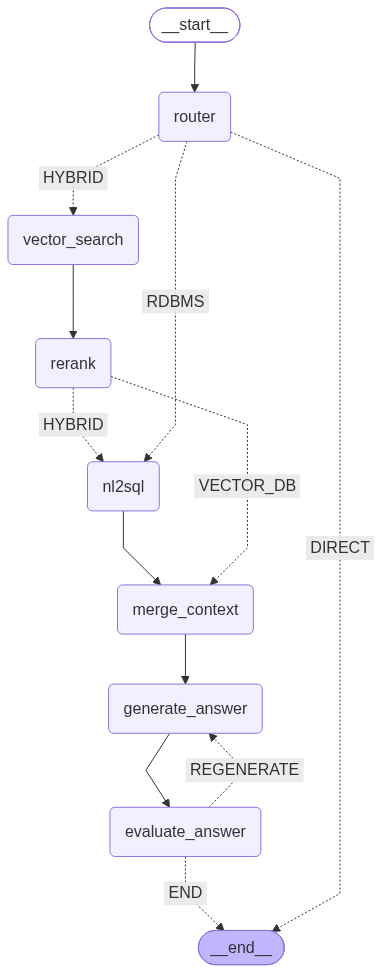
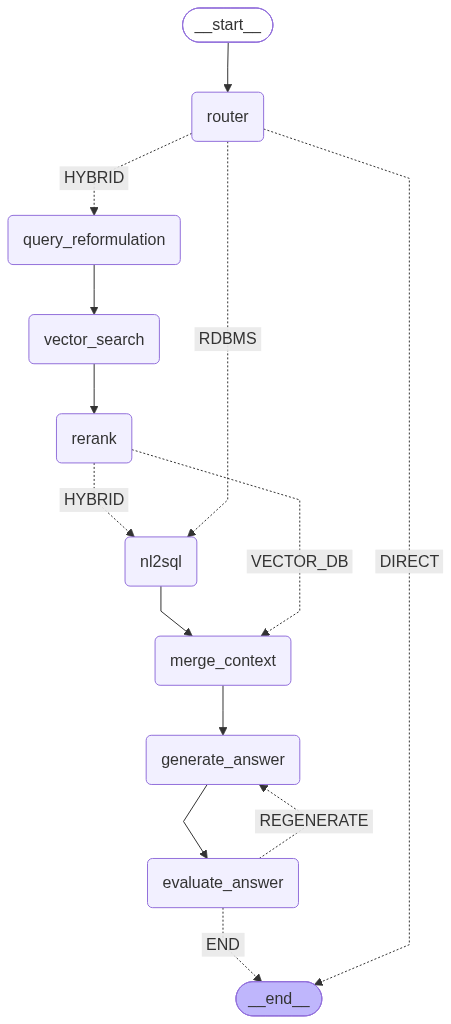
query formulation and evaluator changes

diff --git a/src/api/v1/agents/agents.py b/src/api/v1/agents/agents.py
@@ -41,7 +41,7 @@ def _get_llm():
 
 def _get_evaluator_llm():
     return ChatOpenAI(
-        model="gpt-4o-mini",
+        model=os.getenv("OPENAI_CHAT_MODEL"),
         api_key=os.getenv("OPENAI_API_KEY"),
         temperature=0,
     )
@@ -95,6 +95,27 @@ Use when the answer requires only structured data from the relational database, 
 - Reward points or transaction history
 - Counts, summaries or other customer-specific data
 
+RDBMS is for actual customer-specific data, not generic questions about
+how the product or reward program works.
+
+Use RDBMS when the question asks for actual or historical customer data,
+such as:
+- what the customer spent
+- what the customer earned
+- transaction history
+- balances
+- payments
+- statements
+- customer/card details
+
+A generic question about earning rates, benefits, eligibility, fees,
+rules, or policies is VECTOR_DB even if phrased using "I", "my", or "me".
+
+Examples:
+- "How many points do I earn for dining?" → VECTOR_DB
+- "How many points did I earn for dining last month?" → RDBMS
+- "What is the dining reward rate?" → VECTOR_DB
+
 3. HYBRID
 Use when BOTH the relational database and knowledge base are required.
 
@@ -104,6 +125,13 @@ Examples include questions requiring customer-specific data together with:
 - Billing rules
 - Spend categorization rules
 - Other product or policy information
+
+Use HYBRID only when the answer genuinely requires BOTH:
+1. actual customer/transaction data, and
+2. knowledge-base rules or policies.
+
+Do not use HYBRID merely because the question mentions rewards,
+spending, fees, or another topic that exists in both sources.
 
 4. DIRECT
 Use when no database or knowledge-base retrieval is required.
@@ -176,6 +204,72 @@ Return:
             "document_name": "",
             "sql_query_executed": None,
         },
+    }
+
+
+def query_reformulation_node(state: RAGState) -> RAGState:
+    print("========= INSIDE QUERY REFORMULATION NODE =========")
+
+    llm = _get_router_llm()
+
+    prompt = ChatPromptTemplate.from_messages(
+        [
+            (
+                "system",
+                """
+You rewrite user questions into effective search queries for the
+NorthStar Credit Card knowledge base.
+
+Create ONE standalone retrieval query.
+
+Use conversation history to resolve references such as:
+he, she, this, that, previous, same, what about, how about.
+
+Also expand important domain terms with closely related terms when useful
+for document retrieval.
+
+Rules:
+- Preserve the user's intent.
+- Resolve conversational references using history.
+- Add useful credit-card terminology or synonyms when they improve retrieval.
+- Do not answer the question.
+- Do not invent facts, policies, names, amounts, dates, or rules.
+- Do not introduce information that is not present in the question or history.
+- If the question is already clear, make only useful retrieval improvements.
+- Return only the search query.
+""",
+            ),
+            (
+                "human",
+                """
+Conversation History:
+{history}
+
+Current Question:
+{query}
+""",
+            ),
+        ]
+    )
+
+    chain = prompt | llm
+
+    result = chain.invoke(
+        {
+            "history": state.get("messages", []),
+            "query": state["query"],
+        }
+    )
+
+    retrieval_query = result.content.strip()
+
+    print("========= QUERY REFORMULATION =========")
+    print(f"Original Query   : {state['query']}")
+    print(f"Retrieval Query  : {retrieval_query}")
+
+    return {
+        **state,
+        "retrieval_query": retrieval_query,
     }
 
 
@@ -322,11 +416,12 @@ def rerank_node(state: RAGState):
     # send the query and the retrieved_docs to the reranking model
 
     docs = state["retrieved_docs"]
+    search_query = state.get("retrieval_query") or state["query"]
 
     print("=======3. INSIDE rerank_node. Before calling reranker =========")
     rerank_response = co.rerank(
         model="rerank-v3.5",
-        query=state["query"],
+        query=search_query,
         documents=[doc.page_content for doc in docs],
         top_n=5,
     )
@@ -353,12 +448,15 @@ def merge_context_node(state: RAGState) -> RAGState:
 
     print("========= INSIDE MERGE CONTEXT NODE =========")
 
+    route = state.get("route")
+
     # ----------------------------------------------------------
     # Prepare SQL Context
     # ----------------------------------------------------------
     sql_context = ""
 
-    if state.get("sql_result"):
+    if route in ("RDBMS", "HYBRID") and state.get("sql_result"):
+
         sql_context = f"""
         ==========================
         STRUCTURED CUSTOMER DATA
@@ -376,7 +474,7 @@ def merge_context_node(state: RAGState) -> RAGState:
     # ----------------------------------------------------------
     vector_context = ""
 
-    if state.get("reranked_docs"):
+    if route in ("VECTOR_DB", "HYBRID") and state.get("reranked_docs"):
 
         vector_chunks = []
 
@@ -402,7 +500,7 @@ def merge_context_node(state: RAGState) -> RAGState:
         )
 
     # ----------------------------------------------------------
-    # Merge both contexts
+    # Merge contexts
     # ----------------------------------------------------------
     contexts = []
 
@@ -414,6 +512,7 @@ def merge_context_node(state: RAGState) -> RAGState:
 
     final_context = "\n\n".join(contexts)
 
+    print(f"Route                  : {route}")
     print(f"SQL Context Present    : {bool(sql_context)}")
     print(f"Vector Context Present : {bool(vector_context)}")
 
@@ -437,21 +536,30 @@ def generate_answer_node(state: RAGState) -> RAGState:
             (
                 "system",
                 """
-You are the NorthStar Credit Card Customer Support Assistant.
+SOURCE ACCURACY
 
-Answer the user's current question using only the supplied conversation
-history and retrieved context.
+Answer using only the supplied context.
 
-## Grounding Rules
+Preserve the exact meaning and scope of the source.
 
-- Do not invent facts.
-- Customer-specific facts must come from structured customer data.
-- Product features, policies, fees, rewards and rules must come from the
-  knowledge base.
-- When both sources are provided and both are required, combine them.
-- If the available context is insufficient, clearly state that the
-  information cannot be determined from the available data.
-- Resolve conversational references using the conversation history.
+Do not generalize, infer, or expand policy statements.
+
+If the source says an exclusion applies to a specific portion,
+condition, transaction type, or circumstance, apply the exclusion only
+to that scope.
+
+Do not convert:
+"X portion is excluded"
+into:
+"X is excluded."
+
+Do not convert:
+"X transactions are excluded"
+into:
+"all X spending is excluded."
+
+When a table and an explanatory note appear together, interpret them
+together and preserve both the earning rule and its exceptions.
 
 ## Response Style
 
@@ -535,24 +643,50 @@ def evaluate_answer_node(state: RAGState) -> RAGState:
             (
                 "system",
                 """
-You are the answer-quality evaluator for the NorthStar Credit Card Assistant.
+You are the answer evaluator for a credit-card RAG system.
 
-Evaluate the generated answer against the current question,
-conversation history, and retrieved context.
+Evaluate the generated answer against the retrieved context.
 
-Return PASS only when:
-- The answer directly addresses the user's question.
-- All factual claims are supported by the supplied context.
-- No unsupported or hallucinated information is present.
-- Important information required to answer the question is included.
-- The answer is clear and concise.
+PASS if:
 
-Return REGENERATE when any of these conditions fail.
+1. The answer is supported by the retrieved context.
+2. The answer does not contradict the retrieved context.
+3. Important qualifiers, conditions, exceptions and scope are preserved.
+4. The answer directly addresses the user's question.
 
-For REGENERATE, provide short, actionable feedback describing exactly
-what is missing, incorrect, unsupported or unclear.
+REGENERATE if:
 
-Do not answer the user's question.
+1. The answer contradicts the retrieved context.
+2. The answer makes an unsupported claim.
+3. The answer omits a condition that materially changes the meaning.
+4. The answer fails to answer the question.
+
+IMPORTANT:
+
+Use only the retrieved context as the factual authority.
+
+Do not substitute general knowledge for retrieved information.
+
+Do not broaden or narrow the scope of a policy statement.
+
+Evaluate strictly against the retrieved context and preserve the exact scope of qualifiers, 
+conditions and exceptions. Do not broaden a specific exclusion into a broader exclusion.
+
+Preserve qualifiers such as:
+- only
+- except
+- portion
+- subject to
+- up to
+- minimum
+- maximum
+- per transaction
+- per statement
+- per month
+- per year
+
+When the source contains a specific exception, preserve that exception
+rather than generalizing it to the entire category..
 """,
             ),
             (
@@ -622,6 +756,7 @@ def build_rag_graph():
     workflow.add_node("router", router_node)
     workflow.add_node("nl2sql", nl2sql_node)
     workflow.add_node("vector_search", vector_search_node)
+    workflow.add_node("query_reformulation", query_reformulation_node)
     workflow.add_node("rerank", rerank_node)
 
     workflow.add_node("merge_context", merge_context_node)
@@ -636,13 +771,14 @@ def build_rag_graph():
         "router",
         lambda state: state["route"],
         {
-            "VECTOR_DB": "vector_search",
+            "VECTOR_DB": "query_reformulation",
             "RDBMS": "nl2sql",
-            "HYBRID": "vector_search",
+            "HYBRID": "query_reformulation",
             "DIRECT": END,
         },
     )
 
+    workflow.add_edge("query_reformulation", "vector_search")
     workflow.add_edge("vector_search", "rerank")
 
     workflow.add_conditional_edges(
@@ -692,11 +828,20 @@ def run_search_agent(query: str, thread_id: str):
 
     initial_state = {
         "query": query,
+        "retrieval_query": "",
         "messages": [HumanMessage(content=query)],
+        "route": "",
         "retrieved_docs": [],
         "reranked_docs": [],
+        "generated_sql": "",
+        "sql_result": "",
+        "vector_context": "",
+        "sql_context": "",
+        "final_context": "",
         "response": {},
+        "evaluation": "",
         "evaluate_count": 0,
+        "evaluation_feedback": "",
     }
 
     config = {"configurable": {"thread_id": thread_id}}

diff --git a/src/api/v1/tools/vector_search_tool.py b/src/api/v1/tools/vector_search_tool.py
@@ -3,15 +3,17 @@ from src.core.db import search_vector_store
 
 
 def vector_search_node(state: RAGState):
-
     print("====== INSIDE vector_search_node ======")
 
+    search_query = state.get("retrieval_query") or state["query"]
+
     docs = search_vector_store(
-        query=state["query"],
+        query=search_query,
         k=20,
     )
 
-    print(f"Query                : {state['query']}")
+    print(f"Original Query       : {state['query']}")
+    print(f"Retrieval Query      : {search_query}")
     print(f"Retrieved Documents  : {len(docs)}")
 
     if docs:

diff --git a/src/api/v1/states/rag_state.py b/src/api/v1/states/rag_state.py
@@ -1,14 +1,16 @@
 from typing import TypedDict, List, Annotated
 from langchain_core.documents import Document
 from langgraph.graph.message import add_messages
+from langchain_core.messages import BaseMessage
 
 # from pydantic import BaseModel
 
 
 # state for the agent
 class RAGState(TypedDict):
-    messages: Annotated[list, add_messages]
+    messages: Annotated[list[BaseMessage], add_messages]
     query: str
+    retrieval_query: str
     retrieved_docs: List[Document]
     reranked_docs: List[Document]
     response: dict
